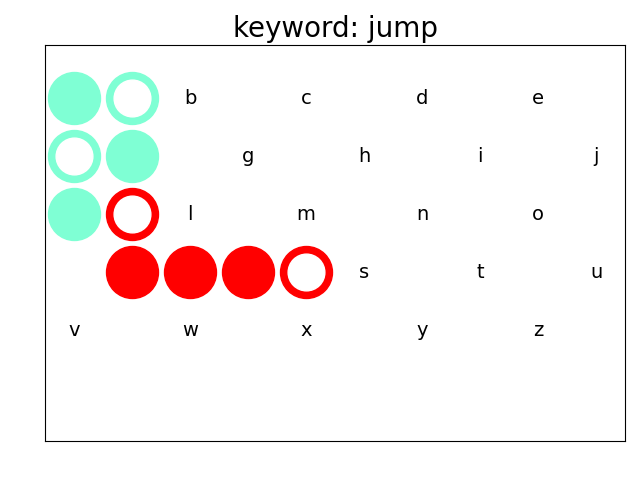
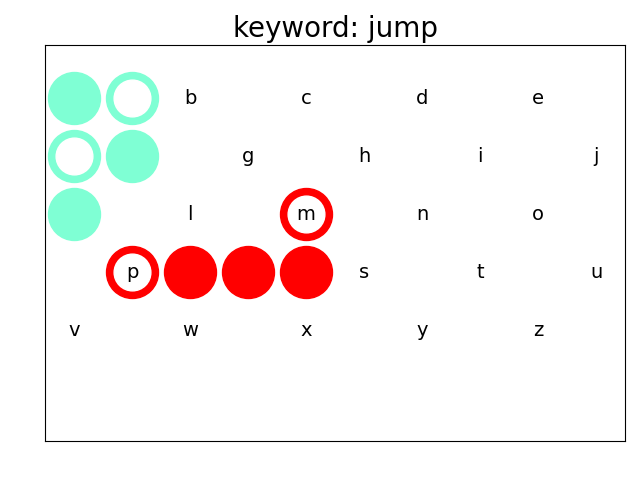
fig1

Changed region(s): [[0.4375, 0.375, 0.5312, 0.625], [0.1562, 0.375, 0.25, 0.625]]

diff --git a/enigma_solver.py b/enigma_solver.py
@@ -25,7 +25,7 @@ displaySols = True
 
 #specify starting piece number (shape), row, and column
 starting_pieces = [
-    [(flip_and_rotate(pieces[1])[0],2,1)],
+    [(flip_and_rotate(pieces[1])[5],2,1)],
     #[(flip_and_rotate(pieces[7])[1],1,8)],
     #[(flip_and_rotate(pieces[6])[2],0,8)],
     [(flip_and_rotate(pieces[5])[2],0,0)]
